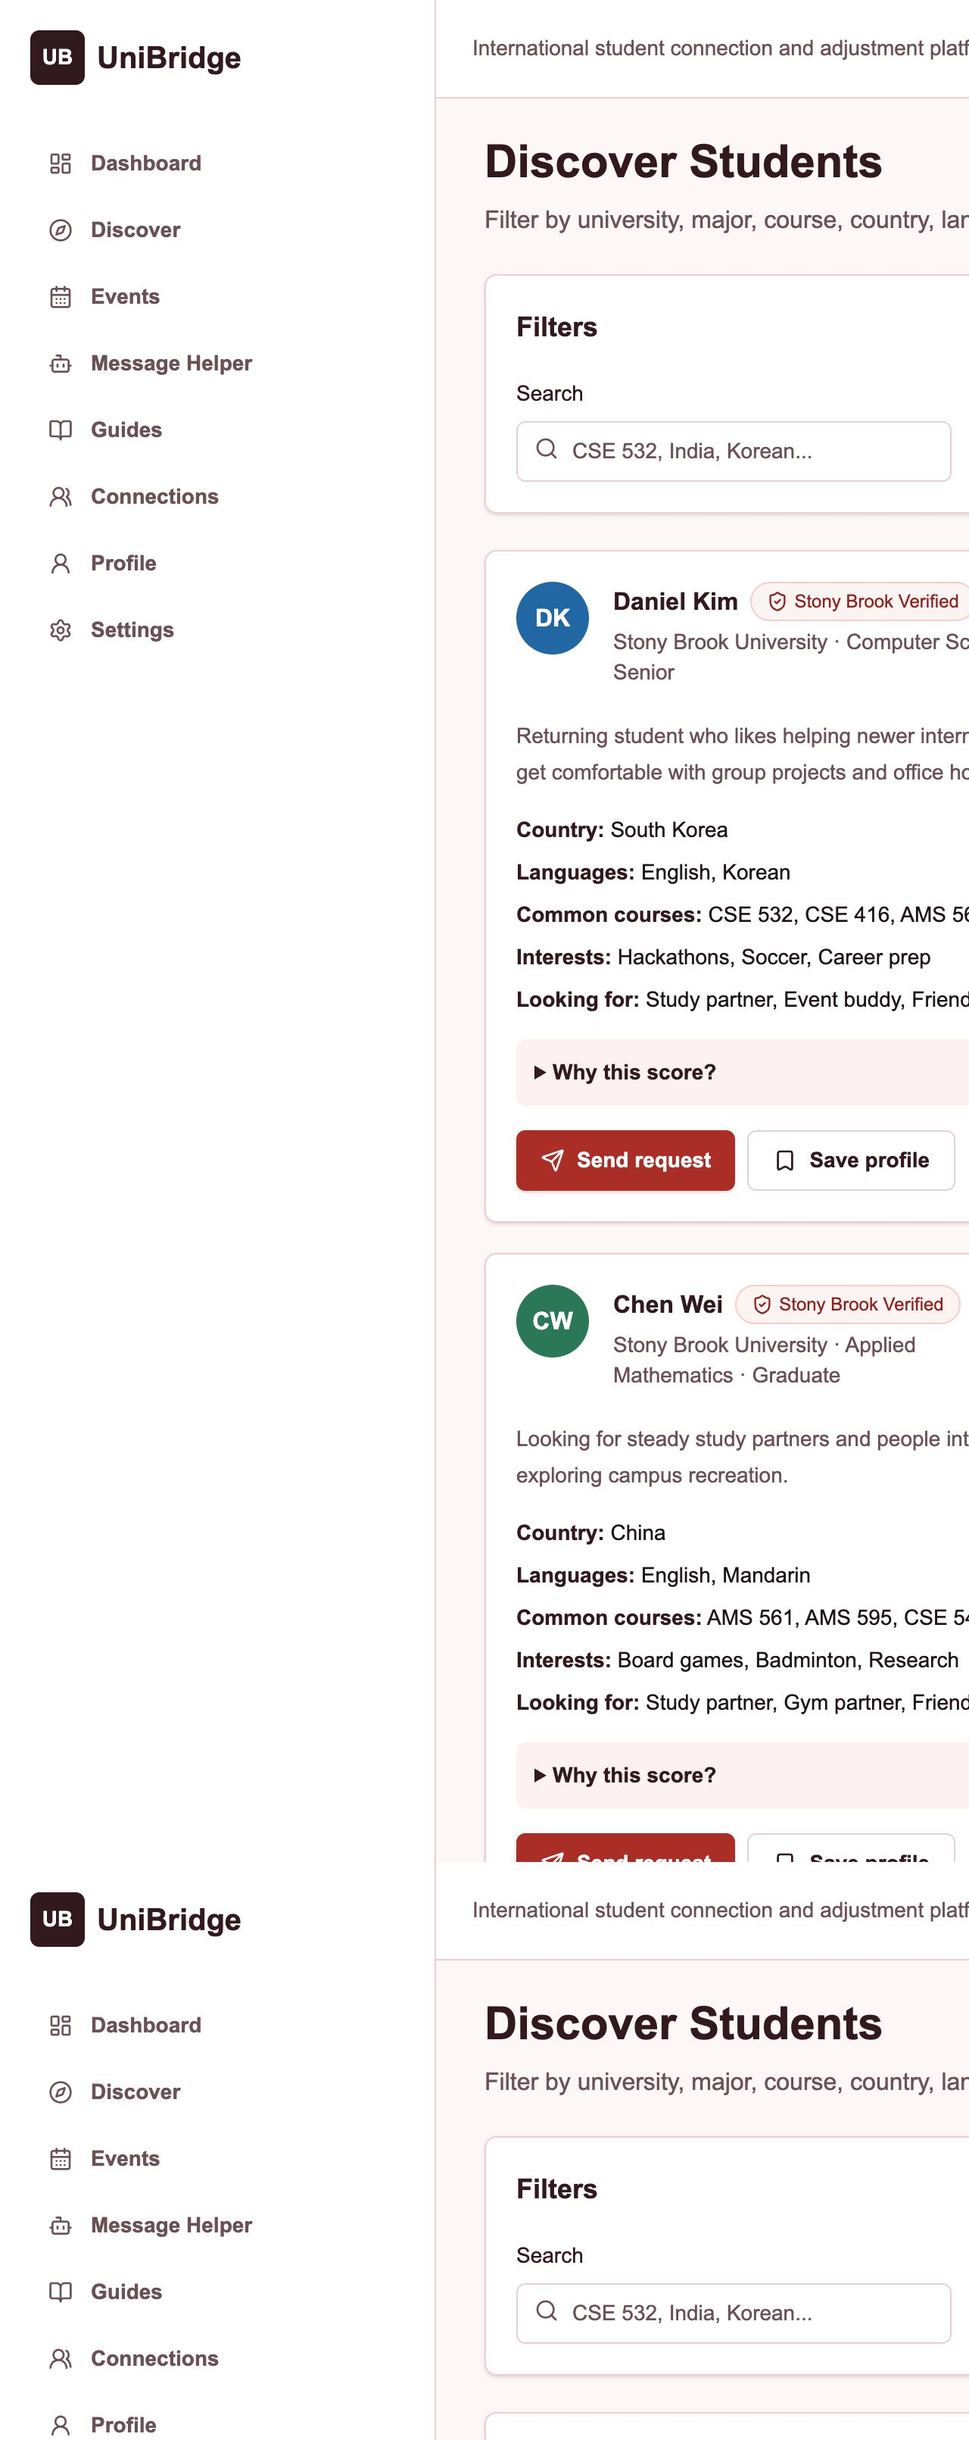
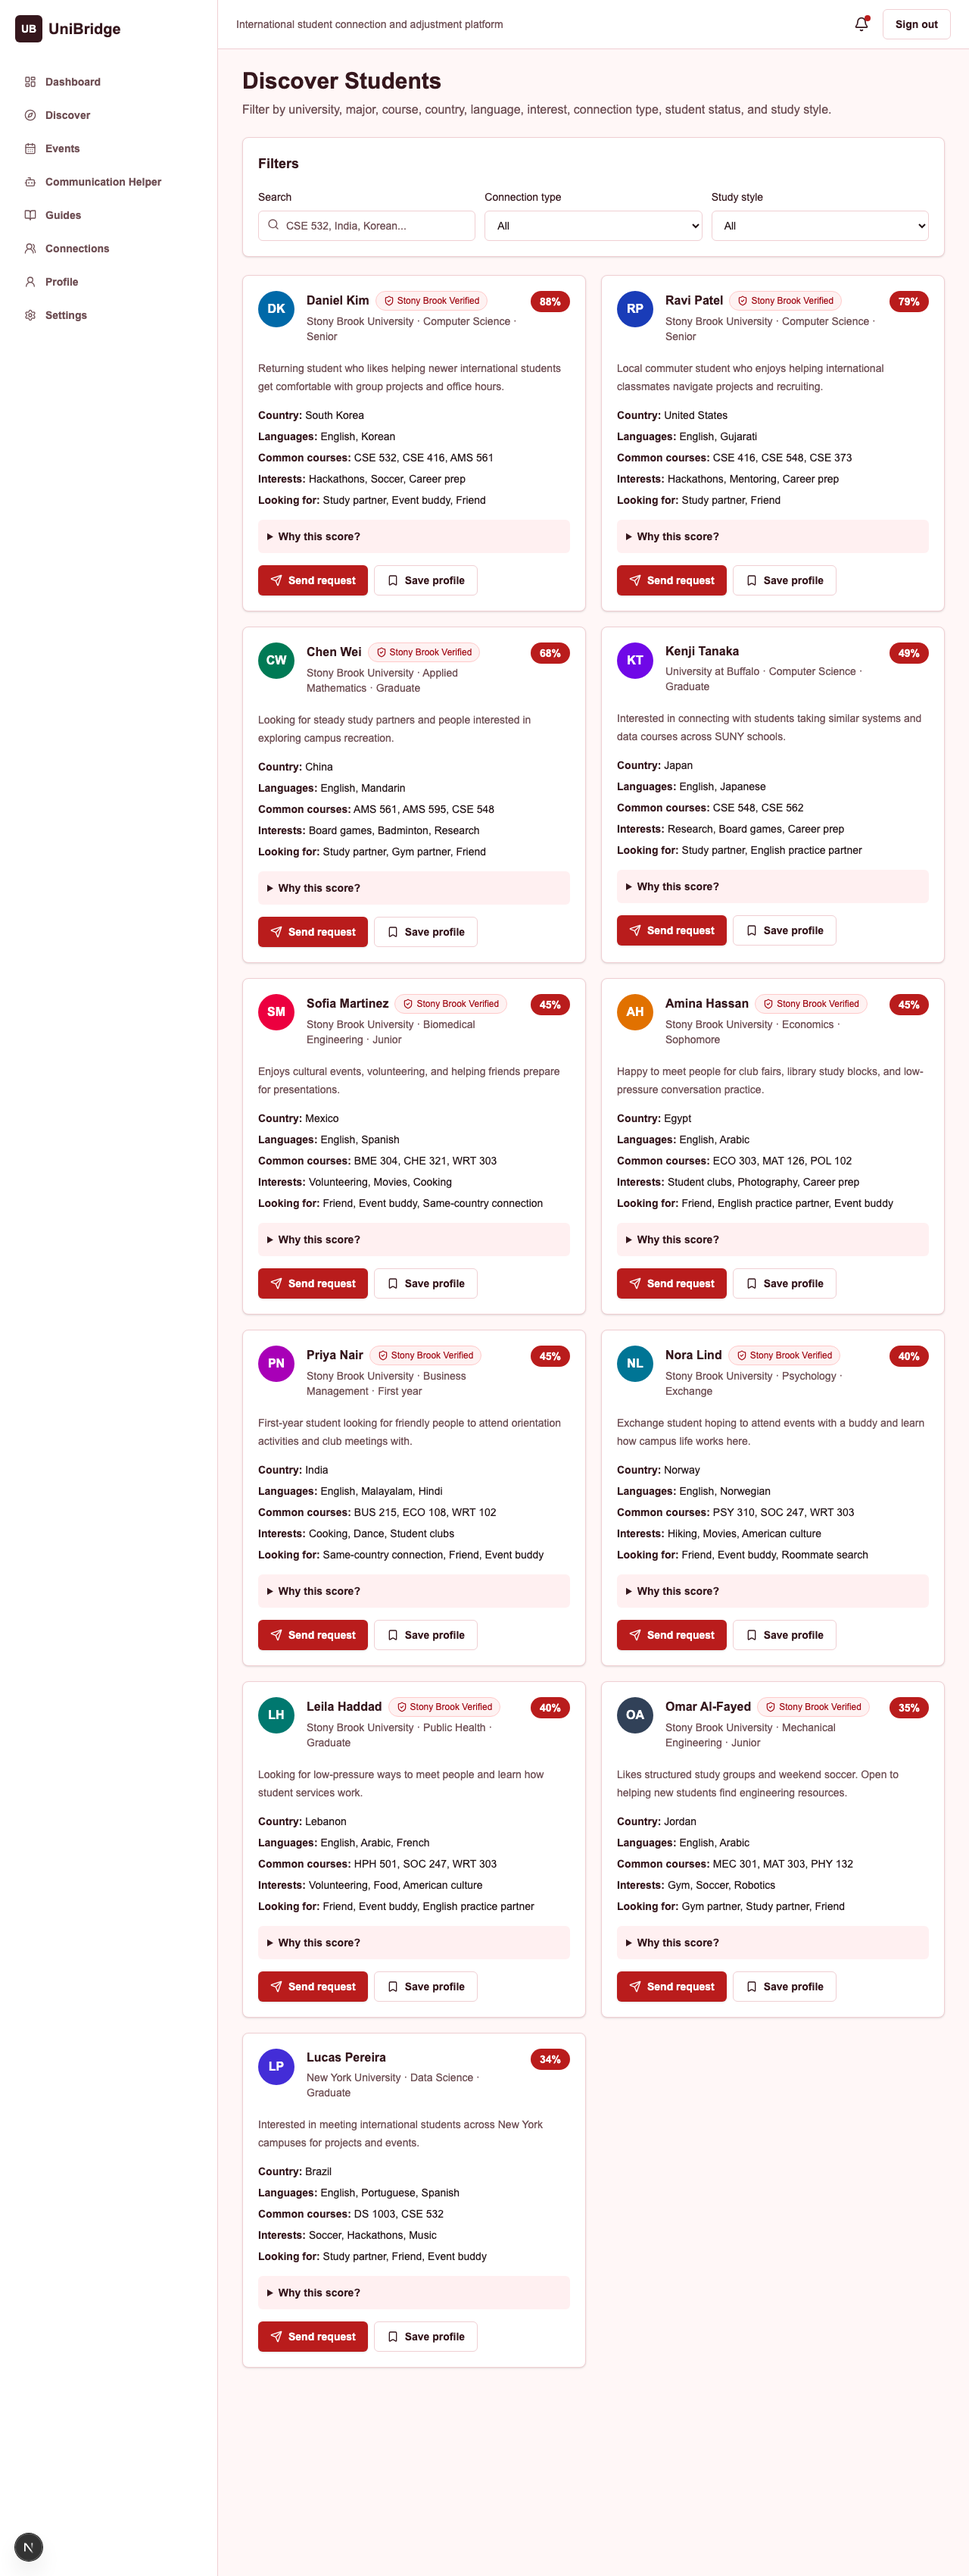
Update README description and screenshots

diff --git a/README.md b/README.md
@@ -2,7 +2,9 @@
 
 **Connect. Belong. Succeed.**
 
-UniBridge is a full-stack student connection platform for international university students. It helps students create a profile, discover compatible classmates, send connection requests, find event buddies, join small groups, chat with group members, revisit saved profiles, read practical guides, and draft respectful university messages.
+UniBridge is a full-stack student connection platform built to help international university students feel supported from the moment they arrive on campus. Students can create a detailed profile, highlight their courses and interests, discover compatible classmates, send connection requests, save profiles they want to revisit, and build smaller communities around shared goals.
+
+The platform also supports practical campus-life workflows: students can browse events, join activities, request an event buddy, create or join small buddy groups, and chat with group members before meeting in person. UniBridge includes helpful guides, a dashboard question assistant for general university-life questions, and a communication helper that drafts respectful messages for professors, classmates, advisors, and campus offices.
 
 Live site: [https://uni-bridge-nu.vercel.app](https://uni-bridge-nu.vercel.app)
 
